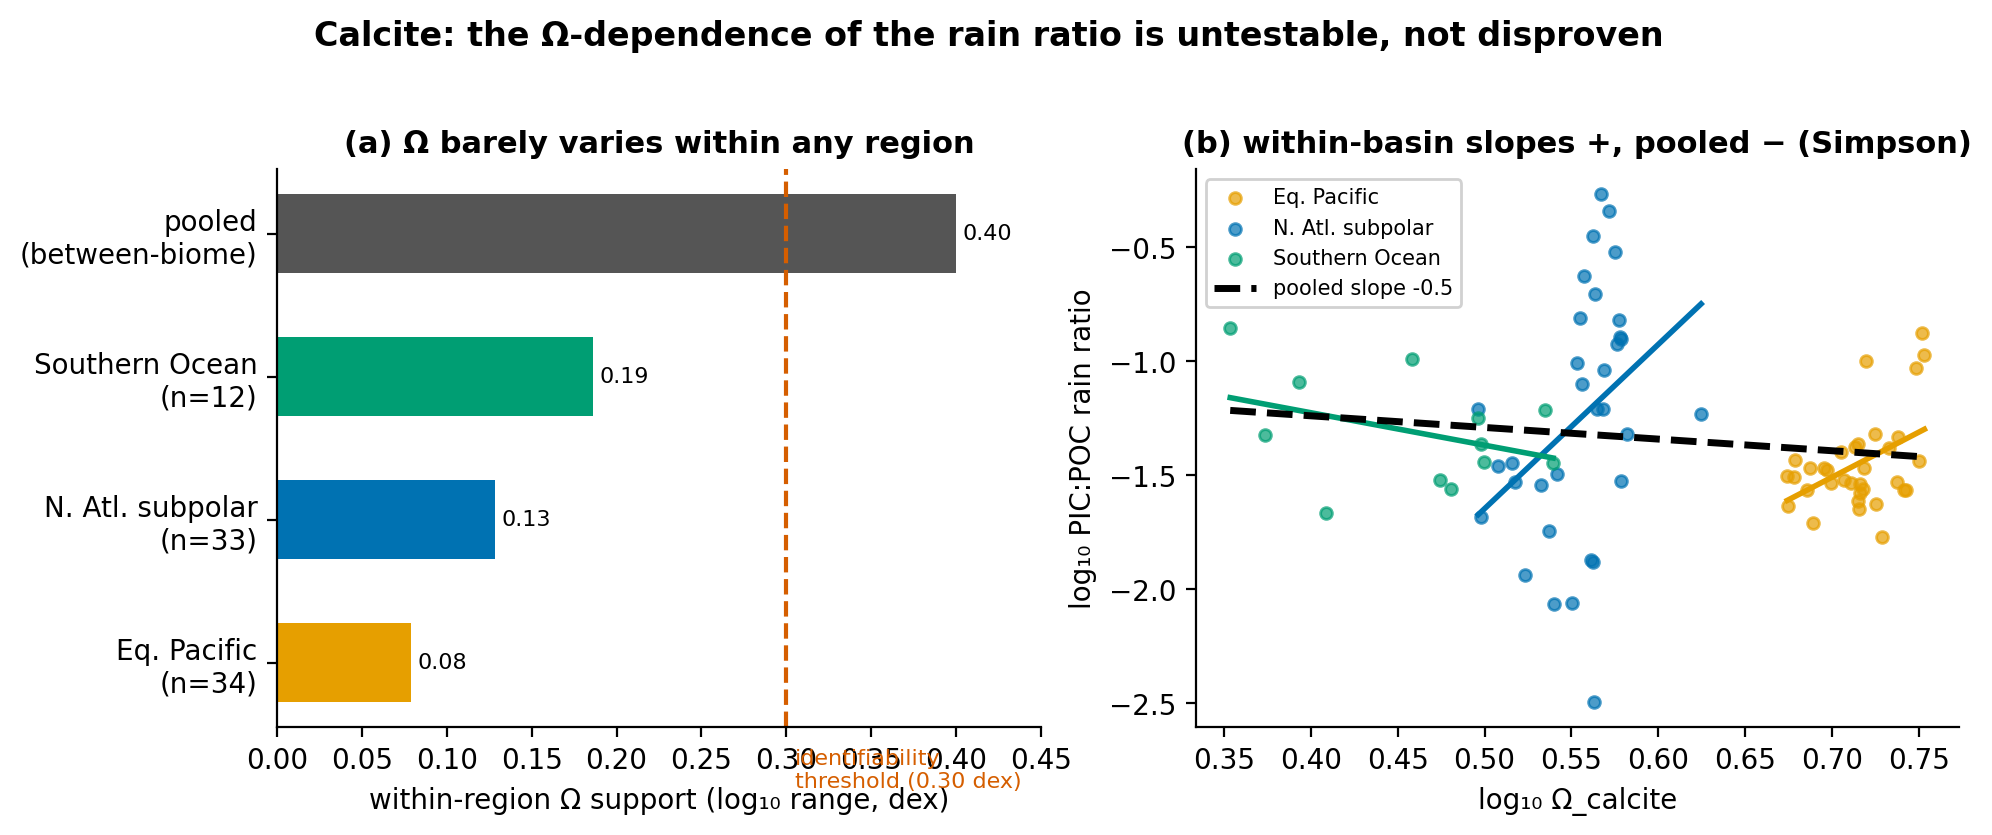
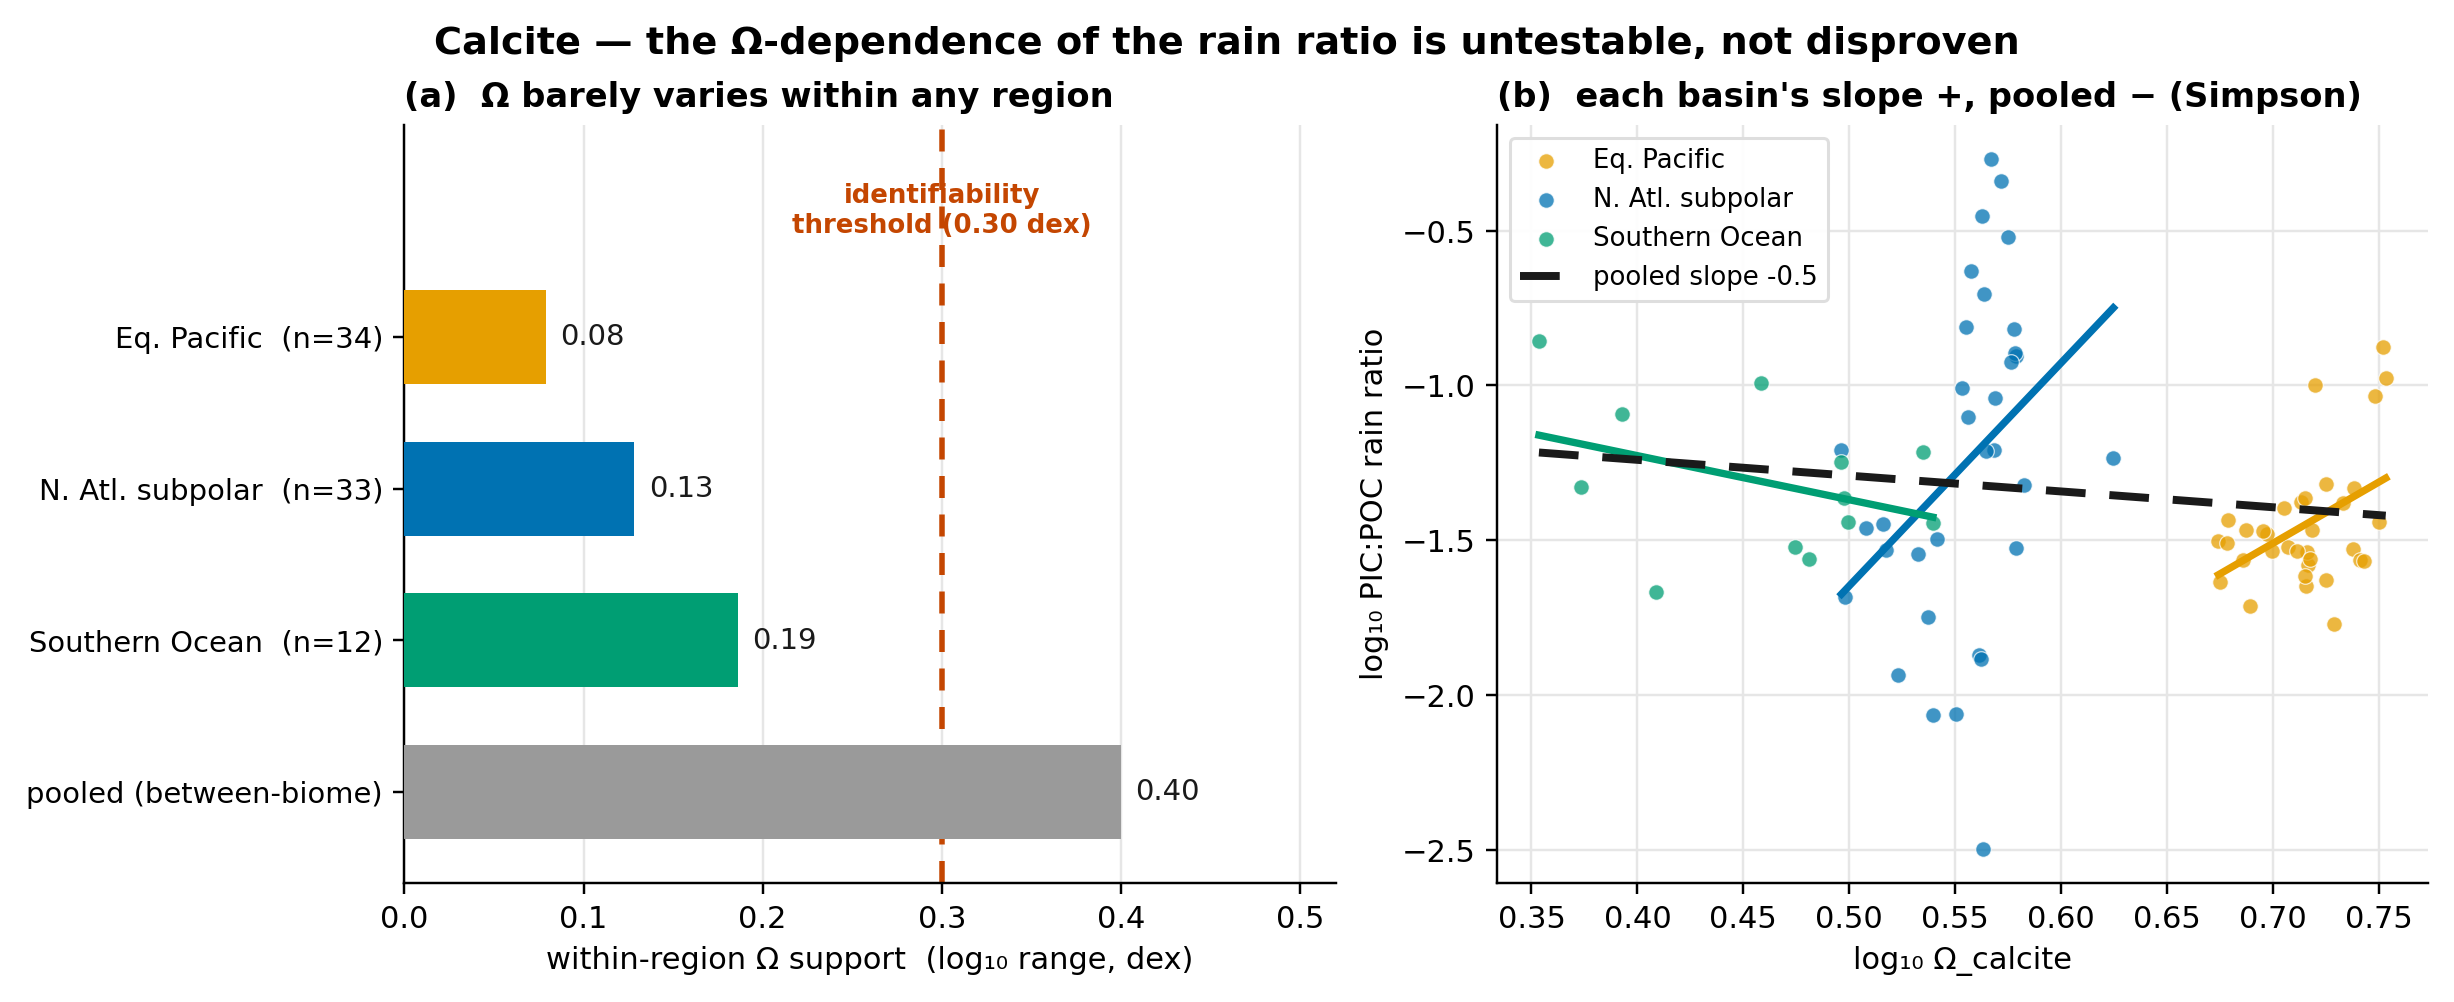
docs(track2): rebuild the map figures to publication quality (fix all overlaps)
Applied the dataviz procedure (form, CVD-safe Wong palette, mark specs, render+eyeball
for collisions). Fixes: fig1 rebuilt as a clean card table with alternating row bands,
short labels, and verified column geometry (no subtitle/observable collision); fig2
threshold label moved above the axis, cleaner scatter with white-edged markers; fig3
panel-a legend moved to the empty center gap (was overlapping the +0.50 label),
value labels placed clear of bars, K_num caption in empty headroom. All three checked
overlap-free at 220 dpi.

diff --git a/scripts/make_map_figures.py b/scripts/make_map_figures.py
@@ -1,12 +1,12 @@
 """Publication figures for the Track-2 identifiability-limits map.
 
-Three figures, from the committed findings + a quick recompute of the raw calcite pairs:
-  fig1_map           — the headline 3-closure identifiability map (schematic)
-  fig2_calcite       — (a) within-region Omega support vs the identifiability threshold;
-                       (b) the Simpson artifact: within-basin slopes positive, pooled negative
-  fig3_e2            — the make-or-break out-of-sample transport E2 (learned vs null, K_num)
+  fig1_map      — the headline 3-closure identifiability map (clean card table)
+  fig2_calcite  — (a) within-region Omega support vs the identifiability threshold;
+                  (b) the Simpson artifact (within-basin slopes +, pooled -)
+  fig3_e2       — the make-or-break out-of-sample transport E2 (learned vs null, K_num)
 
-Colorblind-safe palette (Wong): eqpac=orange, natl=blue, SO=teal; null/reference=grey.
+Colorblind-safe categorical palette (Wong 2011): eqpac=orange, natl=blue, SO=teal;
+null/reference=grey. Layout is placed to avoid text collisions (dataviz step 7).
 CPU. Writes PNGs to docs/findings/figures/.
 """
 from __future__ import annotations
@@ -16,21 +16,26 @@ from pathlib import Path
 import matplotlib as mpl
 import matplotlib.pyplot as plt
 import numpy as np
+from matplotlib.patches import FancyBboxPatch
 
 mpl.rcParams.update({
-    "figure.dpi": 150, "savefig.dpi": 200, "font.size": 10,
+    "figure.dpi": 150, "savefig.dpi": 220, "font.size": 10,
+    "font.family": "DejaVu Sans",
     "axes.spines.top": False, "axes.spines.right": False,
-    "axes.titlesize": 11, "axes.titleweight": "bold", "figure.facecolor": "white",
+    "axes.titlesize": 11, "axes.titleweight": "bold",
+    "axes.labelsize": 10, "figure.facecolor": "white", "axes.facecolor": "white",
+    "axes.grid": True, "grid.color": "#E6E6E6", "grid.linewidth": 0.8,
+    "axes.axisbelow": True,
 })
 OUT = Path("docs/findings/figures"); OUT.mkdir(parents=True, exist_ok=True)
-C = {"eqpac": "#E69F00", "natl": "#0072B2", "so": "#009E73",
-     "null": "#999999", "bad": "#D55E00", "ok": "#009E73", "grey": "#555555"}
+INK, MUTED = "#1A1A1A", "#666666"
+C = {"eqpac": "#E69F00", "natl": "#0072B2", "so": "#009E73", "null": "#9A9A9A",
+     "bad": "#C44601", "line": "#333333"}
 THRESH = 0.30
+LBL = {"eqpac": "Eq. Pacific", "natl": "N. Atl. subpolar", "so": "Southern Ocean"}
 
 
-# --------------------------------------------------------------------------- #
 def _marsh_pairs():
-    """Recompute (Omega, ratio) per basin from the Marsh climatology + cache Omega."""
     from darwindiff import marsh_loader
     from darwindiff.ecco_darwin_loader import (
         EQUATORIAL_PACIFIC_AOI, NORTH_ATLANTIC_SUBPOLAR_AOI, SOUTHERN_OCEAN_PACIFIC_AOI)
@@ -50,123 +55,154 @@ def _marsh_pairs():
 
 # --------------------------------------------------------------------------- #
 def fig1_map():
-    fig, ax = plt.subplots(figsize=(11, 3.6))
-    ax.axis("off"); ax.set_xlim(0, 1); ax.set_ylim(0, 1)
-    # column x-anchors (data coords): closure | observable | verdict box | why
-    XC, XO, XVB, XV, XW = 0.01, 0.14, 0.40, 0.505, 0.62
-    VBW = 0.21  # verdict box width
+    fig = plt.figure(figsize=(11.5, 4.6)); ax = fig.add_axes([0, 0, 1, 1]); ax.axis("off")
+    ax.set_xlim(0, 1); ax.set_ylim(0, 1)
+    # columns (left edge of each) — chosen wide apart, verified against label lengths
+    X_NAME, X_OBS, X_VB, X_WHY = 0.015, 0.20, 0.435, 0.665
+    VBW, VBH = 0.205, 0.115
     rows = [
-        ("Iron", "scav_rat  (scav. rate)", "dissolved Fe conc.\n(GEOTRACES)",
-         "observability wall", "concentration is a low-info projection of the rate;\na particulate observable does not rescue it"),
-        ("Calcite", "Ω-modulation\nof R_PICPOC", "PIC:POC prod. ratio\n(Daniels / Marsh)",
-         "support-limited", "within-region Ω range ≤0.16 dex everywhere;\nconfirmed on in-situ Ω, driver-general, E2 fails"),
-        ("Growth", "Smallgrow,\nBiggrow", "primary production\n(14C / satellite NPP)",
-         "unobservable", "total NPP gives only the biomass-weighted mean\n→ the {small, large} rate pair stays degenerate"),
+        ("Iron", "scav_rat", "dissolved Fe", "concentration\n(GEOTRACES)",
+         "observability wall",
+         ["dissolved Fe concentration is a low-information",
+          "projection of the rate; a particulate observable",
+          "does not rescue it — structural"]),
+        ("Calcite", "R_PICPOC", "PIC:POC ratio", "production ¹⁴C\n(Daniels / Marsh)",
+         "support-limited",
+         ["within-region Ω range ≤ 0.16 dex in every region;",
+          "null confirmed on independent in-situ Ω, shown",
+          "driver-general, and the transport E2 fails"]),
+        ("Growth", "Small/Big grow", "primary prod.", "¹⁴C / satellite\nNPP",
+         "unobservable",
+         ["total NPP gives only the biomass-weighted mean",
+          "growth rate → the {small, large} rate pair",
+          "stays degenerate (loss-degenerate)"]),
     ]
-    ax.set_title("Which ECCO-Darwin BGC closures can real observations constrain? — none, for three distinct reasons",
-                 loc="left", pad=14)
-    for x, h in [(XC, "closure"), (XO, "observable"), (XVB, "verdict"), (XW, "why")]:
-        ax.text(x, 0.9, h, fontsize=9, weight="bold", color="black")
-    ys = [0.66, 0.40, 0.14]
-    for (name, param, obs, verdict, why), y in zip(rows, ys):
-        ax.text(XC, y + 0.03, name, fontsize=11, weight="bold", va="center")
-        ax.text(XC, y - 0.05, param, fontsize=7.5, color=C["grey"], va="center")
-        ax.text(XO, y, obs, fontsize=8.5, va="center")
-        ax.add_patch(mpl.patches.FancyBboxPatch(
-            (XVB, y - 0.045), VBW, 0.09, boxstyle="round,pad=0.004",
-            facecolor=C["bad"], alpha=0.9, edgecolor="none"))
-        ax.text(XVB + VBW / 2, y, verdict, fontsize=8.5, color="white", weight="bold",
-                ha="center", va="center")
-        ax.text(XW, y, why, fontsize=7.8, color=C["grey"], va="center")
-    ax.text(XC, -0.03, "The method is ready; the observing system is the binding constraint. "
-            "The map tells the community what to measure: wider within-region Ω, pure scavenged Fe, per-PFT production.",
-            fontsize=7.8, style="italic", color=C["grey"])
-    fig.savefig(OUT / "fig1_identifiability_map.png", bbox_inches="tight")
+    ax.text(X_NAME, 0.955, "Which ECCO-Darwin BGC closures can real observations constrain?",
+            fontsize=13.5, weight="bold", color=INK)
+    ax.text(X_NAME, 0.895, "None — for three distinct reasons.", fontsize=11, color=C["bad"], weight="bold")
+    hdr_y = 0.80
+    for x, h in [(X_NAME, "CLOSURE"), (X_OBS, "OBSERVABLE"), (X_VB, "VERDICT"), (X_WHY, "WHY")]:
+        ax.text(x, hdr_y, h, fontsize=8.5, weight="bold", color=MUTED)
+    band_top, band_h, gap = 0.72, 0.185, 0.045
+    for i, (name, param, obs1, obs2, verdict, why) in enumerate(rows):
+        yc = band_top - i * (band_h + gap) - band_h / 2
+        if i % 2 == 0:
+            ax.add_patch(mpl.patches.Rectangle((0, yc - band_h / 2), 1, band_h,
+                         facecolor="#F5F5F5", edgecolor="none", zorder=0))
+        ax.text(X_NAME, yc + 0.028, name, fontsize=12.5, weight="bold", color=INK, va="center")
+        ax.text(X_NAME, yc - 0.035, param, fontsize=8.5, color=MUTED, va="center", family="monospace")
+        ax.text(X_OBS, yc + 0.022, obs1, fontsize=10, color=INK, va="center")
+        ax.text(X_OBS, yc - 0.032, obs2, fontsize=8, color=MUTED, va="center")
+        ax.add_patch(FancyBboxPatch((X_VB, yc - VBH / 2), VBW, VBH,
+                     boxstyle="round,pad=0.006,rounding_size=0.02",
+                     facecolor=C["bad"], edgecolor="none", zorder=2))
+        ax.text(X_VB + VBW / 2, yc, verdict, fontsize=10.5, color="white", weight="bold",
+                ha="center", va="center", zorder=3)
+        for j, line in enumerate(why):
+            ax.text(X_WHY, yc + 0.045 - j * 0.045, line, fontsize=8.6, color=INK, va="center")
+    ax.text(X_NAME, 0.045,
+            "The method is ready; the observing system is the binding constraint — the map says what to measure:",
+            fontsize=8.8, style="italic", color=MUTED)
+    ax.text(X_NAME, 0.008,
+            "wider within-region Ω  ·  pure scavenged Fe  ·  per-PFT production.",
+            fontsize=8.8, style="italic", weight="bold", color=MUTED)
+    fig.savefig(OUT / "fig1_identifiability_map.png", bbox_inches="tight", pad_inches=0.15)
     plt.close(fig)
 
 
 def fig2_calcite(pairs):
-    fig, (ax1, ax2) = plt.subplots(1, 2, figsize=(10, 4.2))
-    # (a) within-region Omega support vs threshold
+    fig, (ax1, ax2) = plt.subplots(1, 2, figsize=(11, 4.4), constrained_layout=True)
     order = ["eqpac", "natl", "so"]
-    labels = {"eqpac": "Eq. Pacific", "natl": "N. Atl. subpolar", "so": "Southern Ocean"}
-    spans = {k: (np.log10(pairs[k][0].max()) - np.log10(pairs[k][0].min())) for k in order}
-    pooled_span = (np.log10(max(pairs[k][0].max() for k in order))
+    spans = {k: float(np.log10(pairs[k][0].max()) - np.log10(pairs[k][0].min())) for k in order}
+    pooled = float(np.log10(max(pairs[k][0].max() for k in order))
                    - np.log10(min(pairs[k][0].min() for k in order)))
-    ys = np.arange(len(order))
-    ax1.barh(ys, [spans[k] for k in order], color=[C[k] for k in order], height=0.55)
-    ax1.barh([len(order)], [pooled_span], color=C["grey"], height=0.55)
-    ax1.axvline(THRESH, ls="--", color=C["bad"], lw=1.5)
-    ax1.text(THRESH + 0.005, -0.6, "identifiability\nthreshold (0.30 dex)", color=C["bad"], fontsize=8, va="top")
-    ax1.set_yticks(list(ys) + [len(order)])
-    ax1.set_yticklabels([f"{labels[k]}\n(n={pairs[k][0].size})" for k in order]
-                        + [f"pooled\n(between-biome)"])
-    ax1.set_xlabel("within-region Ω support (log₁₀ range, dex)")
-    ax1.set_title("(a) Ω barely varies within any region")
-    for i, k in enumerate(order):
-        ax1.text(spans[k] + 0.004, i, f"{spans[k]:.2f}", va="center", fontsize=8)
-    ax1.text(pooled_span + 0.004, len(order), f"{pooled_span:.2f}", va="center", fontsize=8)
-    ax1.set_xlim(0, 0.45)
 
-    # (b) Simpson: log ratio vs log Omega per basin
+    # (a) support bars
+    ax1.grid(axis="y", visible=False)
+    rows = order + ["pooled"]
+    vals = [spans[k] for k in order] + [pooled]
+    cols = [C[k] for k in order] + [C["null"]]
+    ys = np.arange(len(rows))[::-1]
+    ax1.barh(ys, vals, color=cols, height=0.62, zorder=3)
+    for y, v in zip(ys, vals):
+        ax1.text(v + 0.008, y, f"{v:.2f}", va="center", ha="left", fontsize=9.5, color=INK)
+    ax1.axvline(THRESH, ls=(0, (4, 3)), color=C["bad"], lw=1.8, zorder=2)
+    ax1.text(THRESH, len(rows) - 0.35, "identifiability\nthreshold (0.30 dex)",
+             color=C["bad"], fontsize=8.5, ha="center", va="bottom", weight="bold")
+    ax1.set_yticks(ys)
+    ax1.set_yticklabels([f"{LBL[k]}  (n={pairs[k][0].size})" for k in order]
+                        + ["pooled (between-biome)"], fontsize=9.5)
+    ax1.set_xlim(0, 0.52); ax1.set_ylim(-0.6, len(rows) + 0.4)
+    ax1.set_xlabel("within-region Ω support  (log₁₀ range, dex)")
+    ax1.set_title("(a)  Ω barely varies within any region", loc="left")
+
+    # (b) Simpson scatter
+    ax2.grid(True)
     for k in order:
         om, ra = pairs[k]
-        ax2.scatter(np.log10(om), np.log10(ra), s=18, color=C[k], alpha=0.7, label=labels[k])
-        if om.size >= 3:
-            b, a = np.polyfit(np.log10(om), np.log10(ra), 1)
-            xs = np.array([np.log10(om.min()), np.log10(om.max())])
-            ax2.plot(xs, a + b * xs, color=C[k], lw=2)
-    # pooled slope
-    allom = np.concatenate([np.log10(pairs[k][0]) for k in order])
-    allra = np.concatenate([np.log10(pairs[k][1]) for k in order])
-    bp, ap = np.polyfit(allom, allra, 1)
-    xs = np.array([allom.min(), allom.max()])
-    ax2.plot(xs, ap + bp * xs, color="black", lw=2.5, ls="--", label=f"pooled slope {bp:+.1f}")
+        x, y = np.log10(om), np.log10(ra)
+        ax2.scatter(x, y, s=26, color=C[k], alpha=0.75, edgecolor="white", linewidth=0.4,
+                    label=f"{LBL[k]}", zorder=3)
+        b, a = np.polyfit(x, y, 1)
+        xs = np.array([x.min(), x.max()])
+        ax2.plot(xs, a + b * xs, color=C[k], lw=2.4, zorder=4)
+    allx = np.concatenate([np.log10(pairs[k][0]) for k in order])
+    ally = np.concatenate([np.log10(pairs[k][1]) for k in order])
+    bp, ap = np.polyfit(allx, ally, 1)
+    xs = np.array([allx.min(), allx.max()])
+    ax2.plot(xs, ap + bp * xs, color=INK, lw=2.6, ls=(0, (5, 3)),
+             label=f"pooled slope {bp:+.1f}", zorder=5)
     ax2.set_xlabel("log₁₀ Ω_calcite"); ax2.set_ylabel("log₁₀ PIC:POC rain ratio")
-    ax2.set_title("(b) within-basin slopes +, pooled − (Simpson)")
-    ax2.legend(fontsize=7.5, loc="best", framealpha=0.9)
-    fig.suptitle("Calcite: the Ω-dependence of the rain ratio is untestable, not disproven", weight="bold")
-    fig.tight_layout(rect=(0, 0, 1, 0.96))
-    fig.savefig(OUT / "fig2_calcite_support.png", bbox_inches="tight")
+    ax2.set_title("(b)  each basin's slope +, pooled − (Simpson)", loc="left")
+    ax2.legend(fontsize=8.5, loc="upper left", framealpha=0.95, edgecolor="#DDDDDD")
+    fig.suptitle("Calcite — the Ω-dependence of the rain ratio is untestable, not disproven",
+                 fontsize=12.5, weight="bold")
+    fig.savefig(OUT / "fig2_calcite_support.png", bbox_inches="tight", pad_inches=0.12)
     plt.close(fig)
 
 
 def fig3_e2():
-    # from docs/findings/2026-07-10_e2_powered_result.md
-    default = {"learned": -1.53, "null": 0.50, "kh": [(-2.03), (-0.67), (-0.67)]}
-    reg = {"learned": -0.05, "null": 0.50, "kh": [(-0.55), (-0.55), (-0.55)]}
-    fig, (ax1, ax2) = plt.subplots(1, 2, figsize=(10, 4.0))
-    # (a) learned vs null R2 for the two closures
-    x = np.arange(2); w = 0.36
-    ax1.bar(x - w / 2, [default["learned"], reg["learned"]], w, label="learned closure", color=C["bad"])
-    ax1.bar(x + w / 2, [default["null"], reg["null"]], w, label="constant null", color=C["null"])
-    ax1.axhline(0, color="black", lw=0.8)
-    ax1.set_xticks(x); ax1.set_xticklabels(["default\n(hidden 16)", "regularized\n(hidden 4, wd 0.01)"])
-    ax1.set_ylabel("held-out anomaly R²")
-    ax1.set_title("(a) learned never beats the constant null")
-    ax1.legend(fontsize=8, loc="lower right")
+    default = {"learned": -1.53, "null": 0.50, "kh": [-2.03, -0.67, -0.67]}
+    reg = {"learned": -0.05, "null": 0.50, "kh": [-0.55, -0.55, -0.55]}
+    fig, (ax1, ax2) = plt.subplots(1, 2, figsize=(11, 4.4), constrained_layout=True)
+
+    # (a) learned vs null
+    ax1.grid(axis="x", visible=False)
+    x = np.arange(2); w = 0.34
+    ax1.bar(x - w / 2, [default["learned"], reg["learned"]], w, label="learned closure",
+            color=C["bad"], zorder=3)
+    ax1.bar(x + w / 2, [default["null"], reg["null"]], w, label="constant null",
+            color=C["null"], zorder=3)
+    ax1.axhline(0, color=INK, lw=1.0)
+    ax1.set_xticks(x); ax1.set_xticklabels(["default\n(hidden 16)", "regularized\n(hidden 4, wd 0.01)"],
+                                           fontsize=9.5)
+    ax1.set_ylabel("held-out anomaly R²"); ax1.set_ylim(-1.85, 0.85)
+    ax1.set_title("(a)  learned never beats the constant null", loc="left")
+    ax1.legend(fontsize=9, loc="center", bbox_to_anchor=(0.5, 0.60),
+               framealpha=0.95, edgecolor="#DDDDDD")
     for xi, v in zip(x - w / 2, [default["learned"], reg["learned"]]):
-        ax1.text(xi, v - 0.12, f"{v:+.2f}", ha="center", fontsize=8, color=C["bad"])
+        ax1.text(xi, v - 0.09 if v < -0.2 else v + 0.05, f"{v:+.2f}",
+                 ha="center", va="top" if v < -0.2 else "bottom", fontsize=9, color=C["bad"], weight="bold")
     for xi, v in zip(x + w / 2, [default["null"], reg["null"]]):
-        ax1.text(xi, v + 0.03, f"{v:+.2f}", ha="center", fontsize=8, color=C["grey"])
-    ax1.annotate("regularization removes\nthe overfit — but still\nno signal to beat null",
-                 xy=(1 - w / 2, reg["learned"]), xytext=(0.35, -0.9), fontsize=7.5,
-                 arrowprops=dict(arrowstyle="->", color=C["grey"]), color=C["grey"])
-    # (b) K_num control ladder
-    kh = [50, 200, 800]
-    ax2.plot(kh, default["kh"], "o-", color=C["bad"], label="default")
-    ax2.plot(kh, reg["kh"], "s-", color=C["null"], label="regularized")
-    ax2.axhline(0, color="black", lw=0.8, ls=":")
-    ax2.set_xscale("log"); ax2.set_xticks(kh); ax2.set_xticklabels(kh)
-    ax2.set_xlabel("horizontal diffusivity kh (K_num control)")
-    ax2.set_ylabel("delta (learned − null) R²")
-    ax2.set_title("(b) K_num non-discriminating (no real signal)")
-    ax2.legend(fontsize=8)
-    ax2.text(0.5, 0.05, "a PASS needs delta > 0 and largest at physical kh, shrinking as kh grows",
-             transform=ax2.transAxes, fontsize=7, color=C["grey"], ha="center")
-    fig.suptitle("The make-or-break out-of-sample transport E2 (calcite) — a decisive negative", weight="bold")
-    fig.tight_layout(rect=(0, 0, 1, 0.95))
-    fig.savefig(OUT / "fig3_e2_result.png", bbox_inches="tight")
+        ax1.text(xi, v + 0.05, f"{v:+.2f}", ha="center", fontsize=9, color=MUTED, weight="bold")
+    ax1.text(0.5, -1.72, "regularization removes the overfit,\nbut there is no signal to beat null",
+             ha="center", fontsize=8.6, color=MUTED, style="italic")
+
+    # (b) K_num ladder
+    kh = np.array([50, 200, 800])
+    ax2.plot(kh, default["kh"], "o-", color=C["bad"], lw=2.2, ms=8, label="default", zorder=4)
+    ax2.plot(kh, reg["kh"], "s-", color=C["null"], lw=2.2, ms=8, label="regularized", zorder=4)
+    ax2.axhline(0, color=INK, lw=1.0, ls=(0, (2, 2)))
+    ax2.set_xscale("log"); ax2.set_xticks(kh); ax2.set_xticklabels(kh, fontsize=9.5)
+    ax2.set_xlabel("horizontal diffusivity  kh  (K_num control)")
+    ax2.set_ylabel("Δ (learned − null) R²"); ax2.set_ylim(-2.25, 0.55)
+    ax2.set_title("(b)  K_num non-discriminating — no real signal", loc="left")
+    ax2.legend(fontsize=9, loc="center right", framealpha=0.95, edgecolor="#DDDDDD")
+    ax2.text(kh.mean(), 0.32, "a PASS needs Δ > 0, largest at physical kh, shrinking as kh grows",
+             ha="center", fontsize=8.2, color=MUTED, style="italic")
+    fig.suptitle("The make-or-break out-of-sample transport E2 (calcite) — a decisive negative",
+                 fontsize=12.5, weight="bold")
+    fig.savefig(OUT / "fig3_e2_result.png", bbox_inches="tight", pad_inches=0.12)
     plt.close(fig)
 
 
